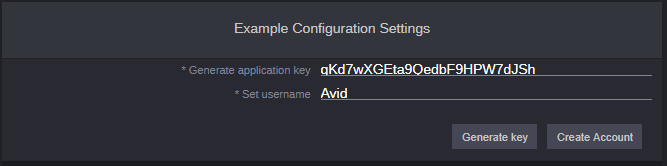
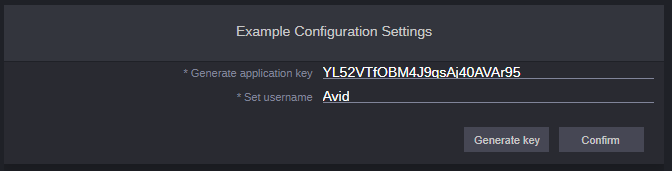
Fixing Readme and text

diff --git a/src/app/containers/MainPaneContainer.js b/src/app/containers/MainPaneContainer.js
@@ -43,7 +43,7 @@ class PaneContainer extends React.Component {
                 </div>
                 <div className="cux-form-button-container">
                     <input type="button" className="cux-button-size-small cux-button-type-default" style={{width: '85px', height: '25px', 'margin-right': '10px'}} value="Generate key" onClick={this.generateRandomKey.bind()}/>
-                    <input type="button" className="cux-button-size-small cux-button-type-default" style={{width: '95px', height: '25px'}} value="Create Account" onClick={this.createAccount.bind()}/>
+                    <input type="button" className="cux-button-size-small cux-button-type-default" style={{width: '85px', height: '25px'}} value="    Confirm" onClick={this.confirm.bind()}/>
                 </div>
                 <br/>
                 {this.state.isWarning && <Warning closeWindow={this.closeWindows}/>}
@@ -66,7 +66,7 @@ class PaneContainer extends React.Component {
         this.setState({username: event.target.value, isUsername: true});
     };
 
-    createAccount = () => {
+    confirm = () => {
         if (!this.state.isUsername || this.state.username.length < 1) {
             this.setState({isWarning: true});
         }

diff --git a/src/app/components/Approved.js b/src/app/components/Approved.js
@@ -6,8 +6,8 @@ const Approved = ({closeWindow, username, applicationKey}) => {
         <div className="cux-shadow-box" style={{display: 'flex', 'justify-content': 'center', 'align-items': 'center', 'background-color': 'rgba(41,42,49,.6)', 'opacity': '1'}}>
             <div className="cux-notification">
                 <div className="info"/>
-                <div>Created user: {username}</div>
-                <div className="message">Application key: {applicationKey}</div>
+                <div>Your username: {username}</div>
+                <div className="message">Your application key: {applicationKey}</div>
                 <div className="message">
                     <div>
                         <input type="button" className="cux-button-size-small cux-button-type-default" style={{width: '50px', height: '25px'}} value="Close" onClick={closeWindow}/>
